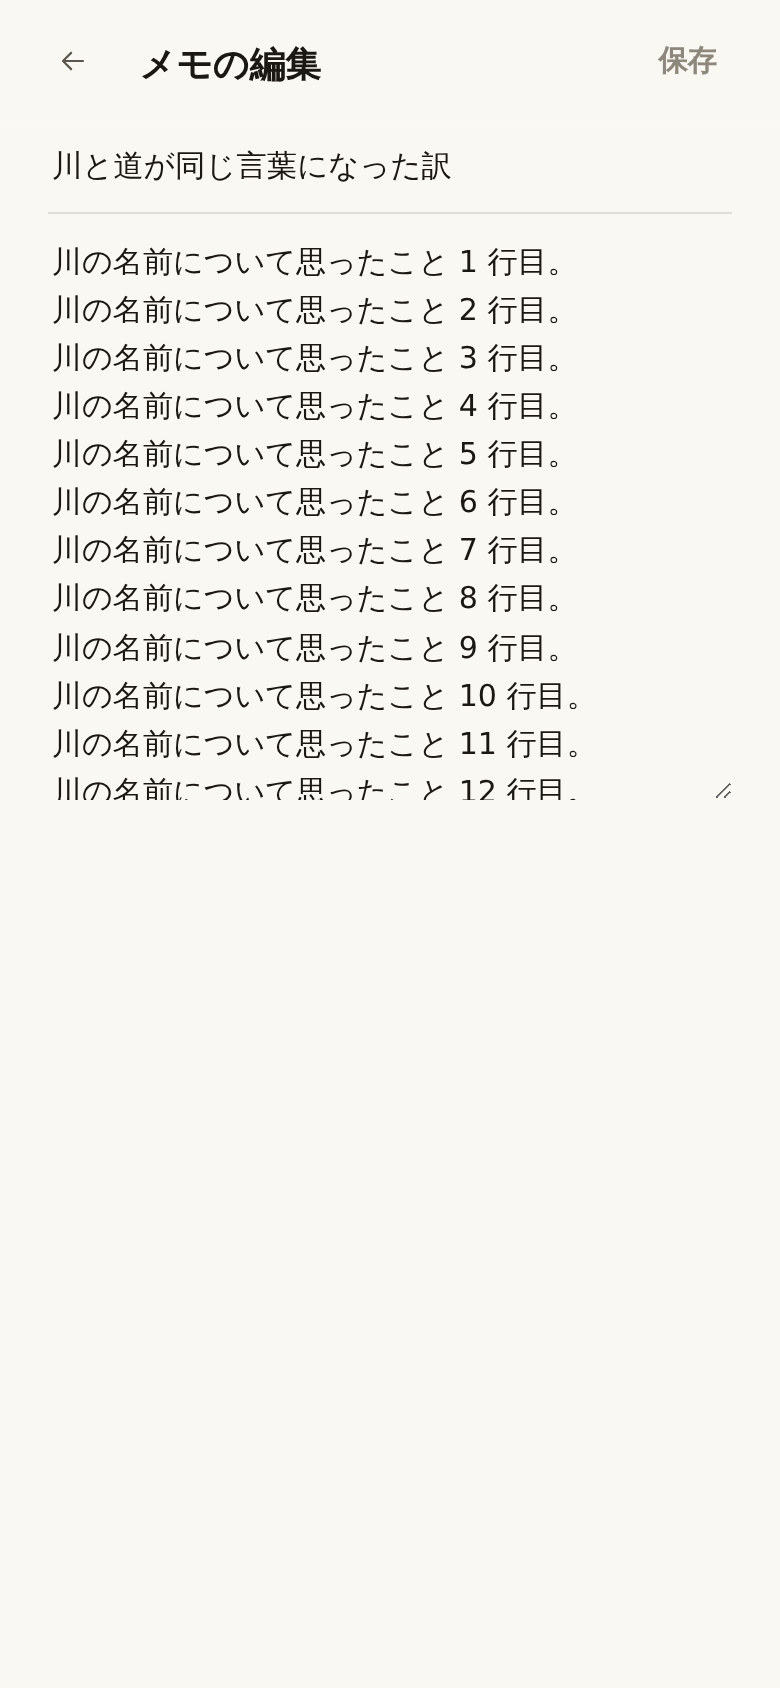
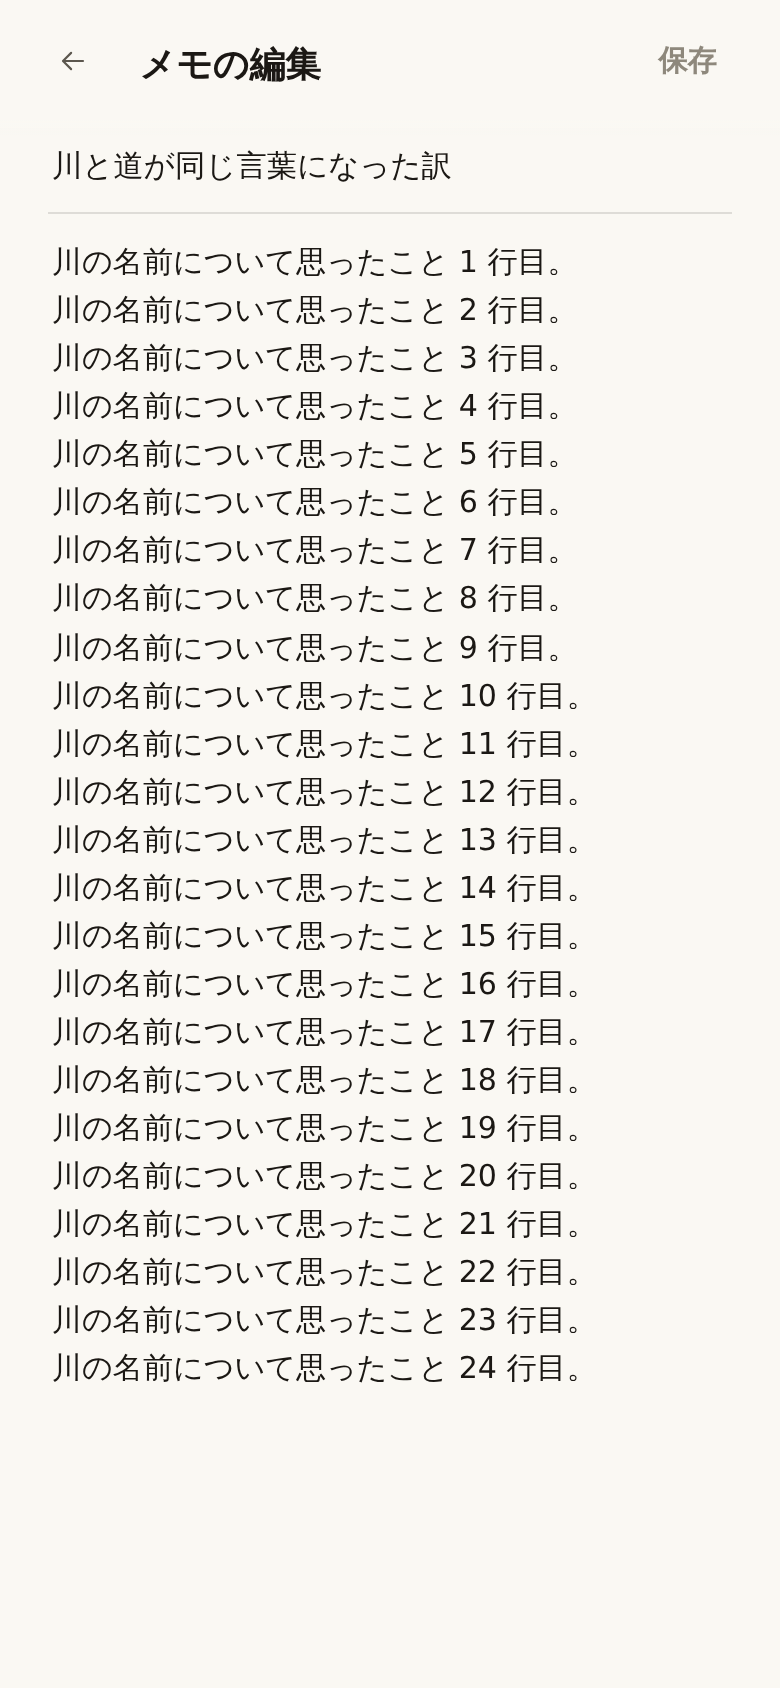
メモの本文が画面の下端まで ── 一画面の高さに「画面全部」の面を足す

diff --git a/www/index.html b/www/index.html
@@ -1302,6 +1302,25 @@ html.fitlock, html.fitlock body{height:100%;overflow:hidden;overscroll-behavior:
 .view.fit{position:fixed;left:0;right:0;top:var(--vvtop,0px);
    height:var(--vvmin,55vh);
    display:flex;flex-direction:column;overflow:hidden}
+/* AND THE OTHER KIND OF ONE SCREEN: the whole phone 「キーボードかんがえない
+   でいいから。画面全部にしてほしい」 OWNER 2026-09-05, about the note.
+
+   `--vvmin` above is what the phone has with the keyboard UP, and on a 390x844
+   it never falls below the 55% guess -- so a form laid out to it is 464 of an
+   844 phone and stops just past halfway, whether or not a keyboard is there.
+   That is the right number for the composer, which has a bar and a row of
+   pictures under the field and must not let them slide when the keyboard
+   goes. A note has nothing under the body, so a keyboard covers the foot of a
+   page and covers nothing anybody was reading -- and 「下まで行かない」 is
+   what the owner saw instead.
+
+   www/home.js § openForm is where a form says which of the two it is; nothing
+   here decides it. 100vh first and 100dvh after, the way .ob already does it:
+   an old WKWebView takes the first and every phone gets a full screen. */
+.view.fit.fitfull{height:100vh;height:100dvh}
+/* And no room kept at the foot for a bar this kind of screen does not have --
+   the 53px below is .pwbar's, and it was 53px of nothing under the note. */
+.view.fit.fitfull .body{padding-bottom:env(safe-area-inset-bottom,0px)}
 /* No room left at the foot for the bar of tabs, because there is no bar of
    tabs: a screen that is one screen has nowhere else to be, and where you
    are is not a question anybody is asking while they write a post.
@@ -3646,12 +3665,12 @@ textarea.ntbody.grow{min-height:0;height:auto;overflow:hidden;resize:none}
    この画面に残っている高さを全部取る ── 「題名／下線／この下は何もなくて
    下まで行く」 OWNER 2026-09-05。.lnin の下の余白もここで落とす: 題名の線と
    本文は続いた一枚。
-   残っている高さ、であって画面の高さではない: .view.fit は `--vvmin`
-   (キーボードが上がったときの高さ、390x844 では 464px = 画面の 55%) の箱で、
-   本文はその中で伸びるところまで。下端まで届かせるのは openForm の側。 */
+   残っている高さが画面の下端までであるのは、この画面が openForm の 'full'
+   ── 一画面を画面全部に取る面 ── で開くから (上の .view.fit.fitfull)。 */
 .ntt{flex:0 0 auto;margin-bottom:0}
-.view.fit .ntform{flex:1;min-height:0;display:flex;flex-direction:column}
-.view.fit .ntform .ntbody{flex:1;min-height:0;border-bottom:0}
+.view.fit .ntform{flex:1;min-height:0;display:flex;flex-direction:column;margin-bottom:0}
+/* resize は落とす: 画面いっぱいの一枚に、引っ張って伸ばす角は要らない。 */
+.view.fit .ntform .ntbody{flex:1;min-height:0;border-bottom:0;resize:none}
 
 /* ---------- grammar: a decision, and what it does ----------
    A row of choices, then the piece of sound the choice is carried by, then

diff --git a/www/home.js b/www/home.js
@@ -162,10 +162,26 @@ var FORM_OPEN={};   /* what rebuilds it when you arrive by the back button */
 /* `fit` is the sixth: a form that is one screen and does not scroll. It was
    read off FORM in vForm() and set by nobody, so the composer scrolled, kept
    its bar of tabs, and let the keyboard carry its own header off the top of
-   the phone -- while a comment two files away said otherwise. */
+   the phone -- while a comment two files away said otherwise.
+
+   AND IT SAYS WHICH SCREEN IT IS ONE OF. Two forms ask for it and they want
+   two different heights:
+
+     true     the height the phone has with the KEYBOARD UP (`--vvmin`). The
+              composer, which has a bar and a row of pictures under the field
+              -- laid out to anything taller and they slide down the phone
+              every time the keyboard goes 「キーボードをおろしても位置は
+              動かない」.
+     'full'   the whole screen, keyboard or no keyboard 「キーボードかんがえ
+              ないでいいから。画面全部にしてほしい」 OWNER 2026-09-05. The
+              note, which has nothing under the body: a keyboard covers the
+              foot of it and covers nothing anybody was looking at.
+
+   It is one word rather than a second flag because it is one question -- how
+   tall is this one screen -- and a form answers it once. */
 function openForm(key, title, html, mount, right, fit){
   FORM={key:key, title:title, html:html, mount:mount||null, right:right||'',
-        fit:!!fit};
+        fit:fit? (fit==='full'? 'full' : true) : false};
   if(here().r==='form' && here().a===key){ render(); window.scrollTo(0,0); }
   else go('form', key);
 }
@@ -186,7 +202,8 @@ function vForm(){
      bottom, so the thing you were about to press was somewhere you had to go
      and find. 「この中に1画面収めてうごかないようにしてほしい」 The form says
      so when it opens; nothing here decides it. */
-  return '<div class="view'+(FORM.fit? ' fit' : '')+'">'+navTop('', FORM.right)+
+  return '<div class="view'+(FORM.fit? ' fit' : '')+
+    (FORM.fit==='full'? ' fitfull' : '')+'">'+navTop('', FORM.right)+
     '<div class="body" id="form-body">'+FORM.html+'</div></div>';
 }
 /* ---- where an explanation goes -----------------------------------------

diff --git a/www/notes.js b/www/notes.js
@@ -72,10 +72,9 @@ function openNote(i){
        下線を持たず、この画面に残っている高さを全部取る。
        題名が空のときに一行目が題名になるのは ntHead() が元から読んでいる形。
 
-       **まだ画面の下端までは行っていない。** openForm の fit は高さを
-       `--vvmin` ── キーボードが上がったときの高さ、390x844 では画面の 55%
-       (464px) ── に合わせる箱で、それは投稿画面のための数
-       (www/shell.js § vvFit)。メモをそこから外すのは openForm の側の話。 */
+       下端まで、は openForm の 'full' ── 一画面の高さを画面全部に取る面で、
+       投稿画面の `--vvmin`(キーボードが上がったときの高さ、390x844 では
+       464px) ではない方 (www/home.js § openForm)。 */
     '<div class="field ntform">'+
       lnField('nt-t', t('notes.t'), IN('ntSetT'), ntTyped(k, 't'), 'ntt')+
       '<textarea id="nt-b" class="ntbody" placeholder="'+esc(t('notes.b.ph'))+'"'+
@@ -89,7 +88,7 @@ function openNote(i){
        Deleting is the list's own, by a left swipe on the row -- 「メモの編集の
        ところに削除ボタンやめて。一覧から右にスワイプして削除。標準アプリと
        同じ作りにして」 OWNER 2026-09-05, `delNoteGo()` below. */
-    null, null, true);
+    null, null, 'full');
 }
 FORM_OPEN.note=function(i){ openNote(parseInt(i,10)); };
 /* ---- what is typed on a note, before it is a note -----------------------
